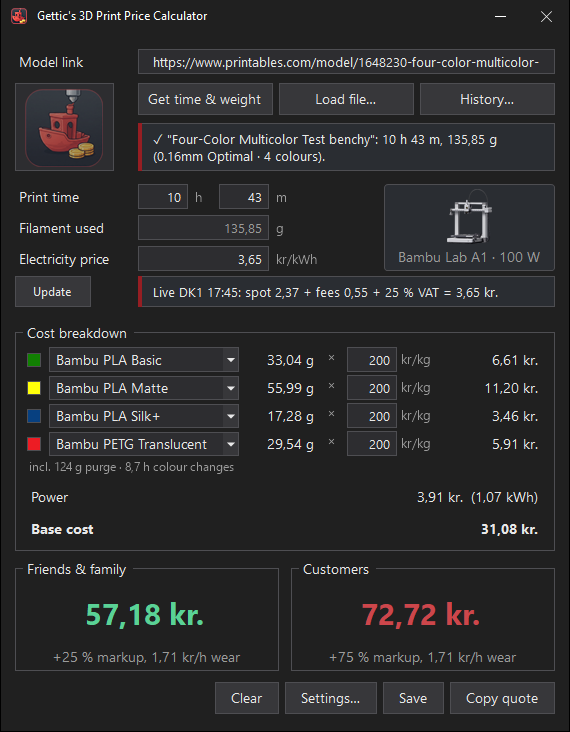
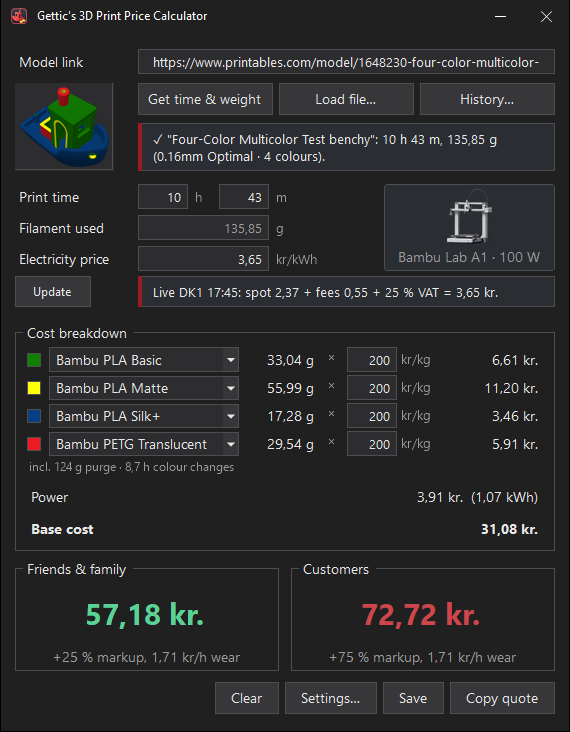
v1.6.1: Fix update check at startup (TLS 1.2 on before the first GitHub request), model picture fits with a margin, one README picture

Changed region(s): [[0.0298, 0.1202, 0.2088, 0.2404]]

diff --git a/src/MainForm.cs b/src/MainForm.cs
@@ -166,7 +166,7 @@ namespace PrintPrice
             // model picture in the label column, beside the buttons and the info box (size measured on Load)
             picModel = new PictureBox
             {
-                SizeMode = PictureBoxSizeMode.Zoom, BackColor = Theme.Input, Size = new Size(10, 10),
+                BackColor = Theme.Input, Size = new Size(10, 10),   // the model picture is drawn in PaintModelPicture (Zoom ignores Padding)
                 Padding = new Padding(4), Margin = Padding.Empty, Anchor = AnchorStyles.Top | AnchorStyles.Left
             };
             picModel.Paint += (s, e) => PaintModelPicture(e.Graphics);
@@ -307,7 +307,7 @@ namespace PrintPrice
             // a 3+ line info box: the picture box grows with it, so both still end at the same line
             lblAuto.SizeChanged += delegate { FitModelPicture(); };
             lblAuto.LocationChanged += delegate { FitModelPicture(); };
-            picModel.Resize += delegate { UpdatePicturePadding(); picModel.Invalidate(); };
+            picModel.Resize += delegate { picModel.Invalidate(); };
             Load += delegate { printerCardReady = true; LayoutPrinterCard(); };   // after the widths above are set
 
             // ---------- Prices ----------
@@ -890,29 +890,15 @@ namespace PrintPrice
         /// Shows a new picture (null = back to the logo) and disposes the old one.
         void SetModelPicture(Bitmap bmp)
         {
-            var old = picModel.Image;
-            picModel.Image = bmp;
-            UpdatePicturePadding();
+            var old = modelImage;
+            modelImage = bmp;
             if (old != null) old.Dispose();
             picModel.Invalidate();
         }
 
-        int picBasePad;
-        bool picPadOverridden;
-
-        /// A model picture keeps a margin (5 % of the box, at least 4 px at 96 dpi) so it doesn't touch the walls;
-        /// the empty box keeps its normal padding (the logo layout uses it).
-        void UpdatePicturePadding()
-        {
-            if (picModel.Image == null)
-            {
-                if (picPadOverridden) { picModel.Padding = new Padding(picBasePad); picPadOverridden = false; }
-                return;
-            }
-            if (!picPadOverridden) { picBasePad = picModel.Padding.Left; picPadOverridden = true; }
-            int min = Math.Max(4 * DeviceDpi / 96, (int)Math.Round(0.05 * Math.Min(picModel.ClientSize.Width, picModel.ClientSize.Height)));
-            if (picModel.Padding.Left != min) picModel.Padding = new Padding(min);
-        }
+        /// The model picture, drawn by PaintModelPicture (not PictureBox.Image: its Zoom mode ignores Padding,
+        /// so the picture touched the walls and the border was drawn over its edges).
+        Bitmap modelImage;
 
         /// Picture box height: at least the 2-line size, else down to the info box's bottom.
         void FitModelPicture()
@@ -934,7 +920,7 @@ namespace PrintPrice
         {
             if (jobLoaded == on) return;
             jobLoaded = on;
-            if (picModel.Image == null) picModel.Invalidate();
+            if (modelImage == null) picModel.Invalidate();
         }
 
         /// Gets the picture bytes and prepares the bitmap off the UI thread; failures are ignored quietly.
@@ -948,7 +934,7 @@ namespace PrintPrice
             catch { }
             if (bmp == null) return;
             // back on the UI thread (await); drop it if the window closed, a newer job started or a better picture is there
-            if (IsDisposed || request != picRequest || (!replace && picModel.Image != null)) { bmp.Dispose(); return; }
+            if (IsDisposed || request != picRequest || (!replace && modelImage != null)) { bmp.Dispose(); return; }
             SetModelPicture(bmp);
         }
 
@@ -1008,7 +994,22 @@ namespace PrintPrice
         void PaintModelPicture(Graphics g)
         {
             var r = picModel.ClientRectangle;
-            if (picModel.Image == null)
+            var pic = modelImage;
+            if (pic != null)
+            {
+                // the whole picture, scaled to fit inside a margin of 5 % of the box (at least 4 px at 96 dpi), centred
+                int m = Math.Max(4 * DeviceDpi / 96, (int)Math.Round(0.05 * Math.Min(r.Width, r.Height)));
+                int aw = r.Width - 2 * m, ah = r.Height - 2 * m;
+                if (aw > 0 && ah > 0)
+                {
+                    double sc = Math.Min((double)aw / pic.Width, (double)ah / pic.Height);
+                    int w = Math.Max(1, (int)Math.Round(pic.Width * sc)), h = Math.Max(1, (int)Math.Round(pic.Height * sc));
+                    g.InterpolationMode = System.Drawing.Drawing2D.InterpolationMode.HighQualityBicubic;
+                    g.PixelOffsetMode = System.Drawing.Drawing2D.PixelOffsetMode.HighQuality;
+                    g.DrawImage(pic, new Rectangle(m + (aw - w) / 2, m + (ah - h) / 2, w, h));
+                }
+            }
+            else
             {
                 string text = jobLoaded ? "" : L.S("No model yet", "Ingen model");
                 var font = pictureFont;

diff --git a/src/Updater.cs b/src/Updater.cs
@@ -72,6 +72,7 @@ namespace PrintPrice
 
         static WebClient Client()
         {
+            Net.EnsureTls();   // the exe download
             return Net.Client("PrintPrice-updater/" + CurrentText);
         }
 
@@ -116,7 +117,8 @@ namespace PrintPrice
         }
 
         /// Returns the latest release if it is newer than this program, otherwise null.
-        // Conditional-request cache (per process, memory only). A 304 reply doesn't count toward GitHub's rate limit.
+        // Conditional-request cache (per process, memory only). It saves downloading the list again; our requests are
+        // anonymous, so a 304 reply still counts toward GitHub's rate limit (60 an hour per IP address).
         static readonly object CacheLock = new object();
         static string _etag;
         static UpdateInfo _cached;
@@ -176,6 +178,7 @@ namespace PrintPrice
         static UpdateInfo Fetch(out bool rateLimited)
         {
             rateLimited = false;
+            Net.EnsureTls();   // this request doesn't go through Net.Client; without it the first check after a start fails
             string etag; bool hadCache;
             lock (CacheLock) { etag = _etag; hadCache = _hasCache; }
             var req = (HttpWebRequest)WebRequest.Create(Api);
@@ -400,7 +403,16 @@ namespace PrintPrice
     {
         static Net()
         {
-            ServicePointManager.SecurityProtocol |= SecurityProtocolType.Tls12;
+            EnsureTls();
+        }
+
+        /// Turns TLS 1.2 on (GitHub and the other services refuse older TLS). The exe has no target-framework
+        /// attribute, so .NET would otherwise offer only SSL3/TLS 1.0. Safe to call any number of times, from any thread;
+        /// call it before every request that doesn't go through Net.Client (and once at startup).
+        public static void EnsureTls()
+        {
+            if ((ServicePointManager.SecurityProtocol & SecurityProtocolType.Tls12) == 0)
+                ServicePointManager.SecurityProtocol |= SecurityProtocolType.Tls12;
         }
 
         public const string DefaultUserAgent = "PrintPrice/1.0 (3D print price calculator)";

diff --git a/src/AssemblyInfo.cs b/src/AssemblyInfo.cs
@@ -6,8 +6,8 @@ using System.Reflection;
 [assembly: AssemblyDescription("Price quotes for 3D prints on a Bambu Lab A1")]
 [assembly: AssemblyCompany("Gettic")]
 [assembly: AssemblyCopyright("Copyright © 2026 Gettic")]
-[assembly: AssemblyVersion("1.6.0.0")]
-[assembly: AssemblyFileVersion("1.6.0.0")]
+[assembly: AssemblyVersion("1.6.1.0")]
+[assembly: AssemblyFileVersion("1.6.1.0")]
 
 namespace PrintPrice
 {

diff --git a/src/Program.cs b/src/Program.cs
@@ -21,6 +21,7 @@ namespace PrintPrice
         [STAThread]
         static int Main(string[] args)
         {
+            Net.EnsureTls();
             try { SetProcessDPIAware(); } catch { }
             // hidden picture mode: PrintPrice.exe --screenshots <folder> renders the windows to PNGs and exits
             // optional "--lang da" / "--lang en" (picture mode only, which never reads the settings file)

diff --git a/README.md b/README.md
@@ -7,9 +7,7 @@
 
 A small dark-mode Windows app that turns a 3D print job into two price quotes: one for **friends & family** and one for **customers**. It's made for the **Bambu Lab A1** and Danish prices (DKK).
 
-<p align="center"><img src="assets/screenshot.png" width="480" alt="Screenshot"></p>
-
-<p align="center"><img src="assets/screenshot-multicolour.png" width="480" alt="Screenshot of a multi-colour print"></p>
+<p align="center"><img src="assets/screenshot-multicolour.png" width="480" alt="Screenshot"></p>
 
 ## Download
 Download **`PrintPrice.zip`** from the [latest release](../../releases/latest), unzip it and run **`PrintPrice.exe`**. Nothing needs to be installed: Windows 10/11 already includes what it needs (.NET Framework 4.8).
